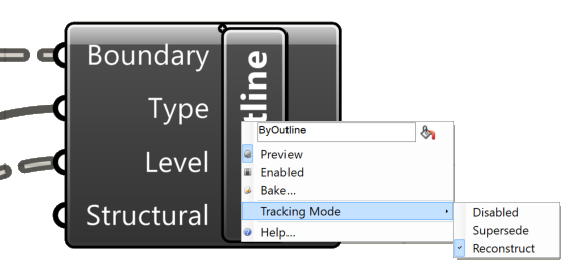
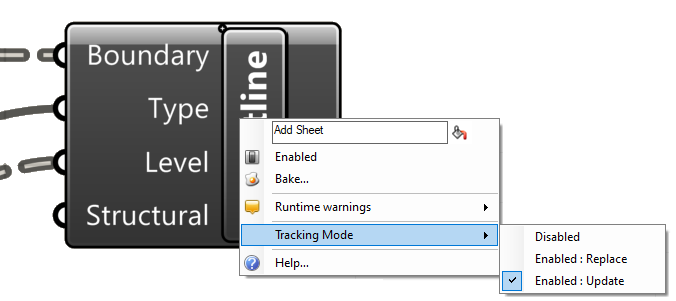
updated tracking mode guide

Changed region(s): [[0.0, 0.0582, 1.0, 0.9891]]

diff --git a/docs/pages/_en/1.0/guides/rir-grasshopper.md b/docs/pages/_en/1.0/guides/rir-grasshopper.md
@@ -78,12 +78,12 @@ This video explains many of the details:
 
 The Tracking Mode can be controlled by right-clicking on the component center.
 
-![]({{ "/static/images/guides/tracking-modes.png" | prepend: site.baseurl }}){: class="small-image"}
+![]({{ "/static/images/guides/tracking-modes.png" | prepend: site.baseurl }})
 
 There are 3 modes:
 1. **Disabled** - This turns off any tracking of created Revit elements.  This can result in duplicate elements being created in Revit.
-1. **Supersede** - This will create completely new elements in Revit each time Grasshopper runs.
-1. **Reconstruct** - The default setting.  Grasshopper will modify existing elements in Revit if possible.  Otherwise, new objects will be created.
+2. **Enabled : Replace** - This will create completely new elements in Revit, replacing the previously-created element, each time Grasshopper runs.
+3. **Enabled : Update** - The default setting. Grasshopper will try to modify existing elements in Revit if possible (if Revit API allows the type of modification).  Otherwise, new objects will be created and the component would behave like *Enabled : Replace*
 
 Each output on Add Component has additional controls to help manage tracking:
 
